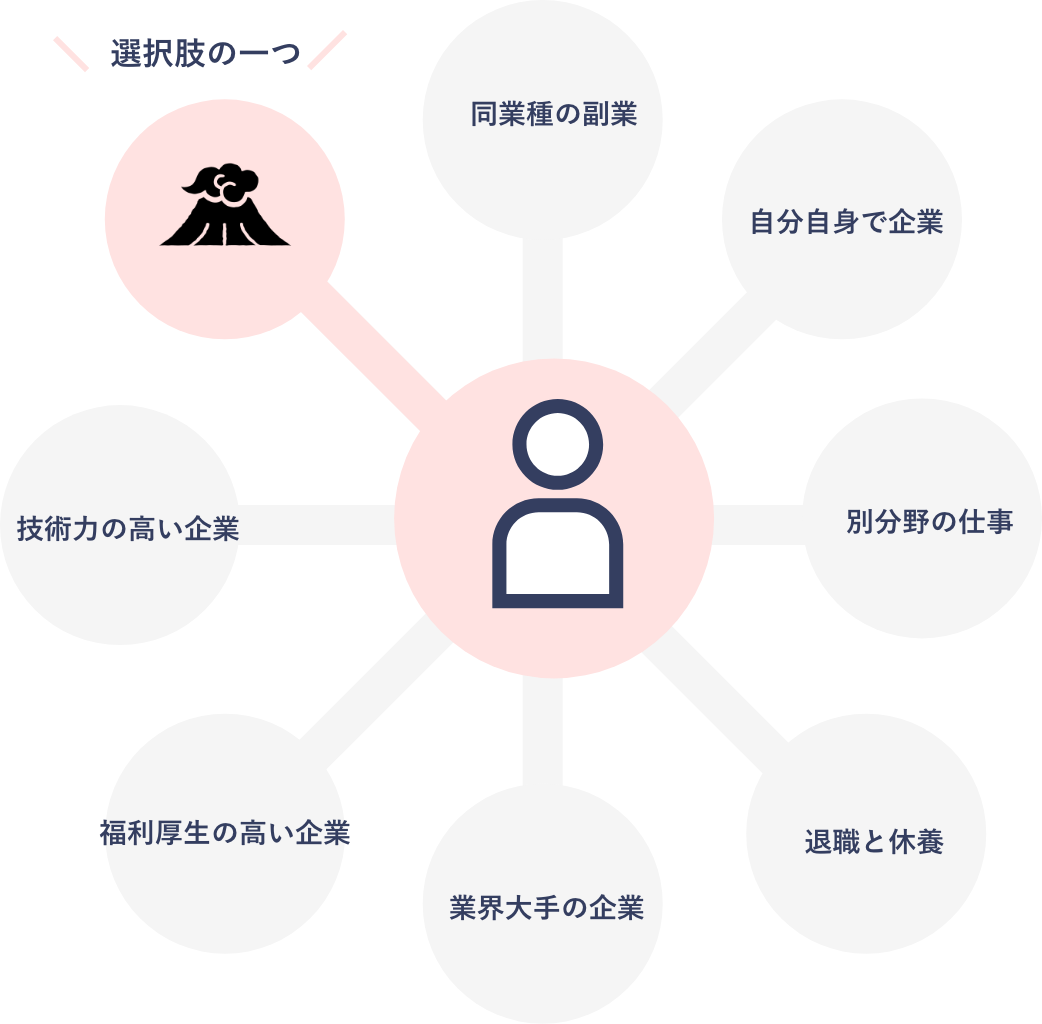
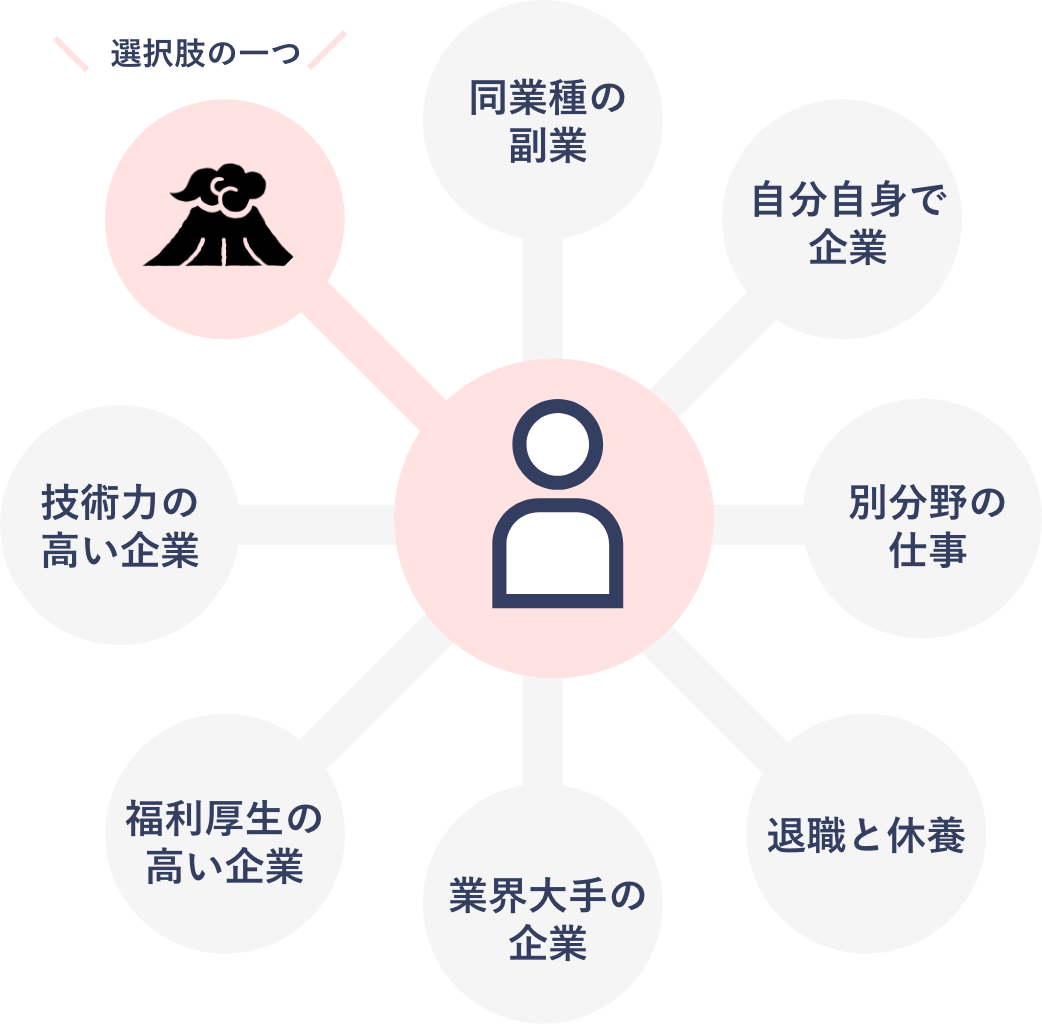
人材育成方針の修正・沿革リンク修正

diff --git a/public/history.html b/public/history.html
@@ -155,7 +155,7 @@
 							</div>
 							<div class="yearlist_list_list_list">
 								<span class="month_ep">4月</span>
-								<div class="text">コーポレートロゴが完成</div>
+								<div class="text"><a href="./logo.html">コーポレートロゴが完成</a></div>
 							</div>
 							<div class="yearlist_list_list_list">
 								<span class="month_ep">&ensp;&emsp;</span>
@@ -189,7 +189,7 @@
 							</div>
 							<div class="yearlist_list_list_list">
 								<span class="month_ep"> 5月</span>
-								<div class="text">Volcano Gamesのロゴを追加</div>
+								<div class="text"><a href="./logo.html">Volcano Games</a>のロゴを追加</div>
 							</div>
 							<div class="yearlist_list_list_list">
 								<span class="month">10月</span>
@@ -197,7 +197,7 @@
 							</div>
 							<div class="yearlist_list_list_list">
 								<span class="month">&emsp;&emsp;</span>
-								<div class="text">利用技術を追加</div>
+								<div class="text"><a href="./tech.html">利用技術</a>を追加</div>
 							</div>
 							<div class="yearlist_list_list_list">
 								<span class="month">&emsp;&emsp;</span>
@@ -220,13 +220,18 @@
 							<div class="yearlist_list_list_list">
 								<span class="month_ep"> 5月</span>
 								<div class="text">
-									ベトナム法人東雲火山ベトナムを設立<br />
-									→ ベトナム法人設立に寄せて
+									<a href="https://shinonomekazan.vn/">ベトナム法人東雲火山ベトナムを設立</a> →<a
+										href="https://contents.shinonomekazan.com/shinonomekazan-vietnam.html"
+										>ベトナム法人設立に寄せて</a
+									>
 								</div>
 							</div>
 							<div class="yearlist_list_list_list">
 								<span class="month_ep"> &ensp;&emsp;</span>
-								<div class="text">採用活動を強化し始め、断片の価値の追求の特設サイトを公開</div>
+								<div class="text">
+									<a href="https://members.shinonomekazan.com/">採用活動</a
+									>を強化し始め、断片の価値の追求の特設サイトを公開
+								</div>
 							</div>
 							<div class="yearlist_list_list_list">
 								<span class="month">10月</span>
@@ -234,11 +239,19 @@
 							</div>
 							<div class="yearlist_list_list_list">
 								<span class="month">&emsp;&emsp;</span>
-								<div class="text">就業規則の届け出を完了</div>
+								<div class="text">
+									<a
+										href="https://github.com/shinonomekazan/documents/blob/main/rules/%E5%B0%B1%E6%A5%AD%E8%A6%8F%E5%89%87.md"
+										>就業規則</a
+									>の届け出を完了
+								</div>
 							</div>
 							<div class="yearlist_list_list_list">
 								<span class="month">12月</span>
-								<div class="text">謎謎火山をオープンし、断片的なサービスのリリースを開始</div>
+								<div class="text">
+									<a href="https://nazonazo.shinonomekazan.com">謎謎火山</a
+									>をオープンし、断片的なサービスのリリースを開始
+								</div>
 							</div>
 							<div class="yearlist_list_list_list">
 								<span class="month">&emsp;&emsp;</span>
@@ -251,7 +264,7 @@
 						<div class="year-boder">
 							<div class="yearlist_list_list_list">
 								<span class="month_ep"> 1月</span>
-								<div class="text">事業実績ページを公開</div>
+								<div class="text"><a href="./achievement.html">事業実績</a>ページを公開</div>
 							</div>
 
 							<div class="yearlist_list_list_list">
@@ -261,7 +274,12 @@
 							<div class="yearlist_list_list_list">
 								<span class="month_ep">&ensp;&emsp;</span>
 								<div class="text">
-									【はたママ】さんにて、「子育てしながら働きやすい会社10選・2022」に選出される
+									<a href="https://www.hatarakumama-pj.com/" target="_blank">【はたママ】さん</a
+									>にて、<a
+										href="https://www.hatarakumama-pj.com/posts/selection1001/?utm_source=mailmagazine&utm_campaign=211223&utm_medium=email#toc9"
+										target="_blank"
+										>「子育てしながら働きやすい会社10選・2022」</a
+									>に選出される
 								</div>
 							</div>
 							<div class="yearlist_list_list_list">
@@ -278,7 +296,12 @@
 							</div>
 							<div class="yearlist_list_list_list">
 								<span class="month_ep">&emsp;&emsp;</span>
-								<div class="text">給与公開制度の運用を開始</div>
+								<div class="text">
+									<a
+										href="https://github.com/shinonomekazan/documents/blob/main/rules/%E7%B5%A6%E4%B8%8E%E5%85%AC%E9%96%8B%E5%88%B6%E5%BA%A6.md"
+										>給与公開制度</a
+									>の運用を開始
+								</div>
 							</div>
 						</div>
 					</li>

diff --git a/sass/main.sass b/sass/main.sass
@@ -43,12 +43,15 @@ $size-7: 0.75rem !default
 
 
 /*沿革・実績*/
+.text a
+   display: contents
+
 .main_title
   text-align: center
   margin: 32px 0px
 
 .history_container
-  width: 1100px
+  width: fit-content
   display: flex
   margin: 0 auto
 
@@ -214,11 +217,16 @@ a
    display: block
    width: 100%
 
-.training_pc
+.training1_pc
    display: block
    width: 100%
 
-.training_sp
+.training2_pc
+   display: inline-block
+   width: 90%
+
+.training1_sp,
+.training2_sp
    display: none
 
 .heading_2,
@@ -235,6 +243,7 @@ a
 
 .heading_01_b
    margin:72px 0px
+   text-align: center
 
 .heading_02
    background-color:  #F5F5F5
@@ -252,7 +261,7 @@ a
 
 .definition_text
    display: inline-block
-   width: 624px
+   width: fit-content
    margin-bottom: 3rem
 
 .heading_text span
@@ -272,10 +281,11 @@ a
    vertical-align: middle
 
 .definition_matome
-   margin-top: 2rem
+   margin-top: 2.5rem
 
 .employment
    display: flex
+   justify-content: space-around
    margin-top: 3rem
 
 .employment_text
@@ -293,12 +303,12 @@ a
    width: 640px
    margin: 0
    padding: 0
-   overflow: hidden
    position: relative
 
 .employment_matome
    margin-top: 2rem
    color: #F19688
+   text-align: center
 
 .career_img_wrapper
    text-align: center
@@ -310,6 +320,7 @@ a
    width: 507px
 
 .career_heading
+   font-weight: bold
    color: #fff
    background-color: #F19688
    padding: 1rem
@@ -391,7 +402,7 @@ accordion
   line-height: 1.5
 
 .toggle:checked + .title + .supplement_text
-  max-height: 500px
+  max-height: fit-content
   transition: all 1.5s
 
 .toggle:checked + .title::before
@@ -399,70 +410,25 @@ accordion
   background-image: url("../files/images/training/arow_top.png")
 
 
+/*tablet*/
+@media screen and (max-width: 820px)
+
+   .employment
+    display: block
+
+   .employment_img
+    width: 100%
+    margin-top: 2rem
+
+   .employment_text
+    width: 100%
+    line-height: 2.5rem
+
 /*sp*/
 @media screen and (max-width: 480px)
-
-  .history_container
-    width: 98%
-    font-size: 14px
-    line-height: 24px
-
-  figcaption.history_list
-    margin-left: 8px
-
-  .year
-    padding: 4px 8px
-    font-size: 14px
-    font-weight: bold
-  .year-boder
-    margin-left: 28px
-  ul.yearlist
-    margin-top: 0px
-    padding-left: 8px
-    margin-bottom:48px
-
-  .yearlist_list
-    margin-bottom: 24px
-
-  .yearlist_list_list
-    margin-bottom: 0px
-
-  .yearlist_list_list_list
-      padding-bottom: 4px
-
-  .earlyperiod
-    font-size: 10px
-    padding: 4px 10px
-    border-radius: 13px
-    margin-right: 8px
-
-  .month
-    font-weight: bold
-    font-size: 14px
-    padding: 0px 10px
-    margin-right: 8px
-
-  .month_ep
-    font-weight: bold
-    font-size: 14px
-    padding: 0px 10px
-    margin-right: 16px
-
-  .achievement_container
-    height: 100%
-    min-width: min-content
-
-  .achievement_list
-    margin-right: 0px
-    width: 100%
-  .text
-    display: inline-flex
-    width: 75%
-
   /*人材育成方針*/
   .training_container
-   font-size: 0.8rem
-   overflow: hidden
+   font-size: 1.2rem
 
   .mv_sp
    display: block
@@ -471,12 +437,21 @@ accordion
   .mv_pc
    display: none
 
-  .training_pc
+
+  .heading_01_b
+   text-align: center
+
+  .training1_pc,
+  .training2_pc
    display: none
 
-  .training_sp
+  .training1_sp
    display: block
    width: 100%
+
+  .training2_sp
+   display: inline-block
+   width: 90%
 
   .heading_2,
   .heading_3,
@@ -501,22 +476,15 @@ accordion
   .definition_img
    width: 70px
 
-  .employment
-   display: block
-
-  .employment_img
-   width: 100%
-   margin-top: 2rem
-
   .employment_text
-   width: 100%
-   line-height: 1.8rem
+    line-height: 2rem
 
   .career_heading
    font-size: 1rem
 
   .career_box
    width:80%
+   height: fit-content
    font-size: 1rem
    display: block
    margin: 2rem

diff --git a/public/training.html b/public/training.html
@@ -147,12 +147,12 @@
 				<!--見出し１-->
 				<div class="heading">
 					<div class="heading_01_a">
-						<img class="training_pc" src="files/images/training/img_01.png" alt="img_01" />
-						<img class="training_sp" src="files/images/training/img_01_sp.png" alt="img_01" />
+						<img class="training1_pc" src="files/images/training/img_01.png" alt="img_01" />
+						<img class="training1_sp" src="files/images/training/img_01_sp.png" alt="img_01" />
 					</div>
 					<div class="heading_01_b">
-						<img class="training_pc" src="files/images/training/img_02.png" alt="img_02" />
-						<img class="training_sp" src="files/images/training/img_02_sp.png" alt="img_02" />
+						<img class="training2_pc" src="files/images/training/img_02.png" alt="img_02" />
+						<img class="training2_sp" src="files/images/training/img_02_sp.png" alt="img_02" />
 					</div>
 				</div>
 				<!--見出し２-->
